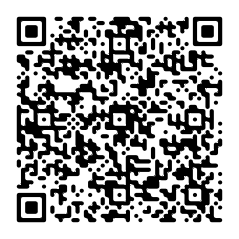
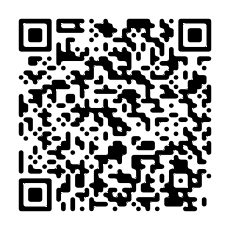
index編集

diff --git a/index.html b/index.html
@@ -1,65 +1,75 @@
 <!doctype html>
 <html>
-<html lang='ja'>
-<head>
-<meta charset="UTF-8">
-<meta http-equiv='X-UA-Compatible' content='ie=edge'>
-<title>Online Share Office|オンラインシェアオフィス</title>
-<meta name="description" content="オンラインシェアオフィスはZoomで繋がるテレワーカー向けの空間です。">
-<meta name="keywords" content="テレワーク,シェアオフィス,コロナ,Zoom,オンライン">
-<meta name='viewport' content='width=device-width, initial-scale=1.0'>
-<meta name="format-detection" content="telephone=no">
-<meta property="og:title" content="Online Share Office┃オンラインシェアオフィス">
-<meta property="og:type" content="website">
-<meta property="og:url" content="https://onlineshareoffice.tentus.jp/">
-<meta property="og:image" content="https://onlineshareoffice.tentus.jp/picture/ogp/ogp_visual_img01.jpg">
-<meta property="og:description" content="オンラインシェアオフィスはZoomで繋がるテレワーカー向けの空間です。">
-<meta property="og:site_name" content="Online Share Office┃オンラインシェアオフィス">
-<link rel="stylesheet" href="common.css">
-</head>
+	<html lang='ja'>
+	<head>
+		<meta charset="UTF-8">
+		<meta http-equiv='X-UA-Compatible' content='ie=edge'>
+		<title>Online Share Office｜オンラインシェアオフィス</title>
+		<meta name="description" content="オンラインシェアオフィスはZoomで繋がるテレワーカー向けの空間です。">
+		<meta name="keywords" content="テレワーク,シェアオフィス,コロナ,Zoom,オンライン">
+		<meta name='viewport' content='width=device-width, initial-scale=1.0'>
+		<meta name="format-detection" content="telephone=no">
+		<meta property="og:title" content="Online Share Office┃オンラインシェアオフィス">
+		<meta property="og:type" content="website">
+		<meta property="og:url" content="https://onlineshareoffice.tentus.jp/">
+		<meta property="og:image" content="https://onlineshareoffice.tentus.jp/picture/ogp/ogp_visual_img01.jpg">
+		<meta property="og:description" content="オンラインシェアオフィスはZoomで繋がるテレワーカー向けの空間です。">
+		<meta property="og:site_name" content="Online Share Office┃オンラインシェアオフィス">
+		<link rel="stylesheet" href="common.css">
+		<link rel="stylesheet" href="//maxcdn.bootstrapcdn.com/font-awesome/4.3.0/css/font-awesome.min.css">
+	</head>
 <body>
-	<div class="top">
-		<h1>Online Share Office<span>.</span></h1>
-	</div>
+	<header>
+		<div class="top">
+			<h1>Online Share Office<span>.</span></h1>
+		</div>
+	</header>
+
 	<div class="contents">
 	  <div class="what content">
+			<h2 class="what-heading">About<span>.</span></h2>
 			<p>コロナウイルスの影響でテレワークをしているみなさんへ。</p>
 			<p>この状況下で漠然とした不安を持って仕事を続けているみなさんへ。</p>
 			<p>その不安や孤独感はあなただけではありません。</p>
 			<p>オンラインシェアオフィスで同じ悩みを持つ人と繋がりませんか？</p>
 			<p>「たいへんだね」「そうだね」「がんばろうね」それだけでもいいのです。</p>
-			<p>集中して作業したいときはミュート。人と話したいときはマイクをオンにして自己紹介。
+			<p>集中して作業したいときはミュート。</p>
+			<p>人と話したいときはマイクをオンにして自己紹介。</p>
 			<p>ただそれだけの場です。</p>
-	  		<p>仕事が終わったら夕方からオンライン飲み会でもどうですか？</p>
-	  		<p>このオンラインシェアオフィスはいつでもみんなのために開けておきます。</p>
-		<img src="https://media3.giphy.com/media/jOyz8wDBsqGRyWWzZn/200.gif?cid=790b76111c38d3239d70559fbd4b9acf1c0d3b7cd83b7748&rid=200.gif"></div>
+	  	<p>仕事が終わったら夕方からオンライン飲み会でもどうですか？</p>
+	  	<p>このオンラインシェアオフィスはいつでもみんなのために開けておきます。</p>
+			<img class="gif-hello" src="https://media3.giphy.com/media/jOyz8wDBsqGRyWWzZn/200.gif?cid=790b76111c38d3239d70559fbd4b9acf1c0d3b7cd83b7748&rid=200.gif">
+		</div>
 		<div class="party content">
-			<h2>Let's have a ZOOM Party</h2>
+			<h2 class="party-heading">Let's have a ZOOM Party<span>.</span></h2>
 			<p class="attend">参加方法１</p>
 			<p class="attend">ZOOMを立ち上げ、参加ボタンから会議IDを入力して参加</p>
-			<p class="how">会議ID：488 478 743</p>
+			<p class="how">会議ID：459-247-518</p>
 			<br>
 			<p class="attend">参加方法２</p>
 			<p class="attend">リンクをクリックして参加</p>
-			<a class="how" href="https://us04web.zoom.us/j/488478743?pwd=YlhHSlRJREdxRUthQXYzL1VtaUdZQT09" target="_blank">Online Share Officeへ</a></p>
+			<a class="how" href="https://zoom.us/j/459247518" target="_blank">Online Share Officeへ</a></p>
 			<br>
 			<p class="attend">参加方法３</p>
 			<p class="attend">QRコードで参加</p>
 			<img class="qrcode" src="picture/attendqrcode.png" alt="参加QRコード" title="参加QRコード">
-		<div class="sponsor content"><h2>Buddy</h2></div>
-		<a href="https://tentus.jp" target="_blank"><img class="logo" src="picture/tentus_logo.png" alt="tentus" title="tentus"></a>
-		<a href="https://emonos.co.jp" target="_blank"><img class="logo" src="picture/emonos_logo.png" alt="emonos" title="emonos"></a>
+		</div>
+		<div class="buddy content">
+			<h2 class="buddy-heading">Buddy<span>.</span></h2>
+			<a href="https://tentus.jp" target="_blank"><img class="logo" src="picture/tentus_logo.png" alt="tentus" title="tentus"></a>
+			<a href="https://emonos.co.jp" target="_blank"><img class="logo" src="picture/emonos_logo.png" alt="emonos" title="emonos"></a>
 		</div>
 	</div>
+
+	<footer>
 		<div class="copyright">
-		<p class="copyright">Copyright tentus inc.</p>
+			<p class="copyright">Copyright tentus inc.</p>
 		</div>
-	<div class="MIT">
-		<p class="MIT">Released under the MIT license<br>
-https://github.com/YukinobuKurata/YouTubeMagicBuyButton/blob/master/MIT-LICENSE.txt</p>
-		</div>
-		
 
-
+		<div class="MIT">
+			<p class="MIT">Released under the MIT license<br>
+				https://opensource.org/licenses/mit-license.php</p>
+			</div>
+	</footer>
 </body>
 </html>

diff --git a/common.css b/common.css
@@ -6,49 +6,97 @@ h1, h2, h3, h4, h5, h6, p,
 form, input, div {
   font-family: "Avenir Next", "Hiragino Kaku Gothic ProN W3", sans-serif;
   text-align: center;
+  margin: 0;
+  padding: 0;
 }
 
-.top {
-  padding-top:30px;
+header {
+  background-color:#ffee00;
+  height:240px;
 }
 
 h1 {
-  font-size:60px;
-
+  padding-top:70px;
+  font-size:80px;
 }
 
-h1 span {
+span {
   color:#ff4a4a;
 }
 
 .content {
-  padding-bottom: 50px;
+  padding-bottom:90px;
+  font-size:13px;
+}
+
+p {
+  padding-bottom:12px;
 }
 
 
 h2 {
   font-size:30px;
+  padding-bottom:20px;
+}
+
+.what-heading {
+  font-size:30px;
+  padding-top:80px;
+}
+
+.what {
+  background-color: #f7f7f7;
+  height:410px;
+  margin-bottom:190px;
+}
+
+.gif-hello {
+  padding-top:80px;
+  height:200px;
 }
 
 p a .how {
   padding-bottom:50px;
 }
 
+.party-heading {
+  padding-top:100px;
+}
+
 .or {
   font-weight:bold;
-    color:#ff4a4a;
+  color:#ff4a4a;
 }
 
-img .qrcode {
-  padding-bottom:100px;
+.qrcode {
+  height:200px;
 }
 
-.sponsor {
-  padding-top:90px;
-  padding-bottom:0;
+
+.buddy {
+  background-color: #f7f7f7;
+  height:200px;
+  margin-bottom:80px;
+}
+
+.buddy-heading {
+  padding-top:80px;
 }
 
 .logo {
-  padding-right:30px;
-  size:30px;
+  padding-right:20px;
+  padding-left:20px;
+  height:120px;
 }
+
+footer p {
+  font-size:10px;
+}
+
+@media all and (max-width: 670px) {
+  h1 {
+    font-size:60px;
+    padding-top:50px;}
+  }
+
+  }
